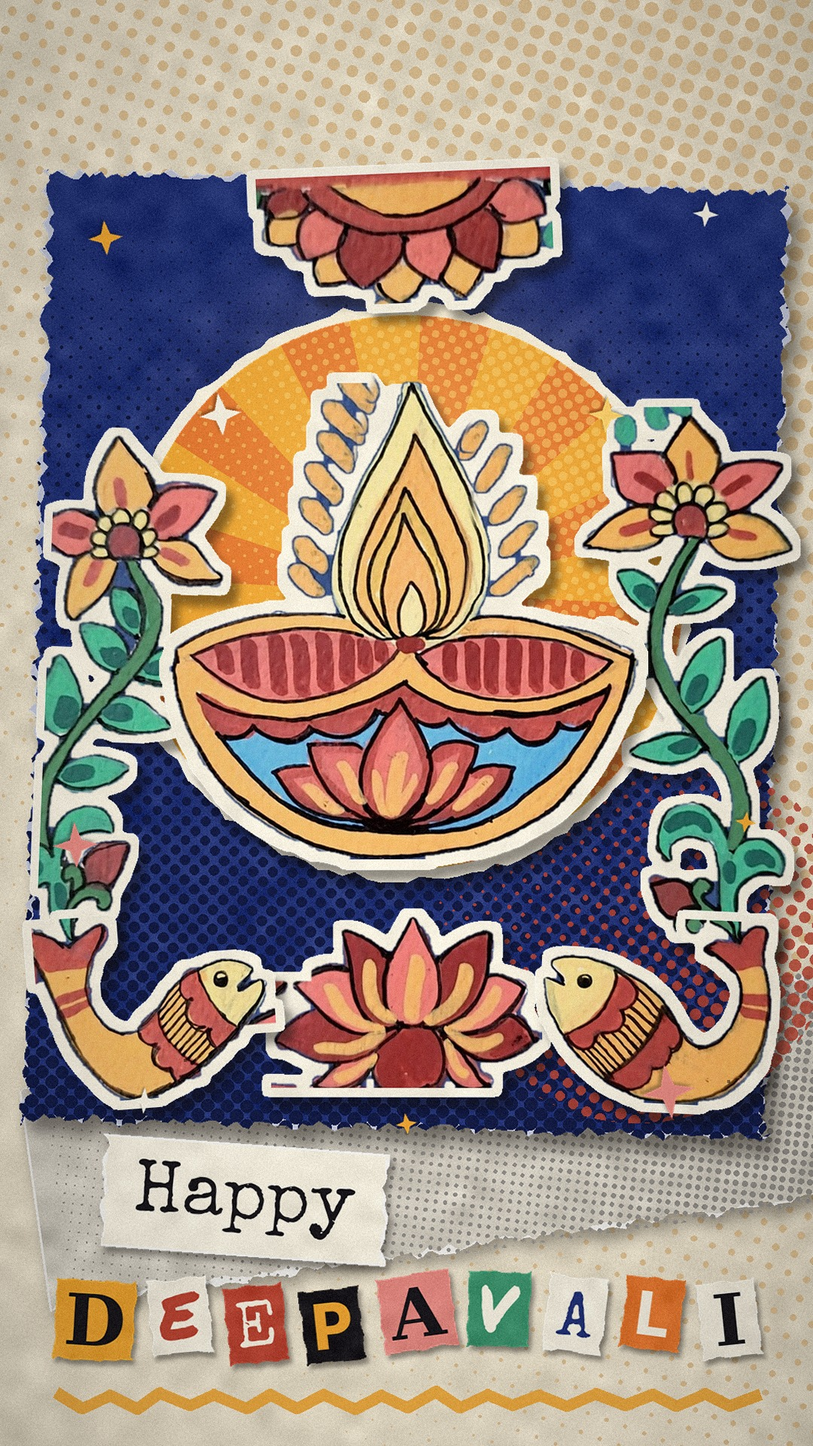
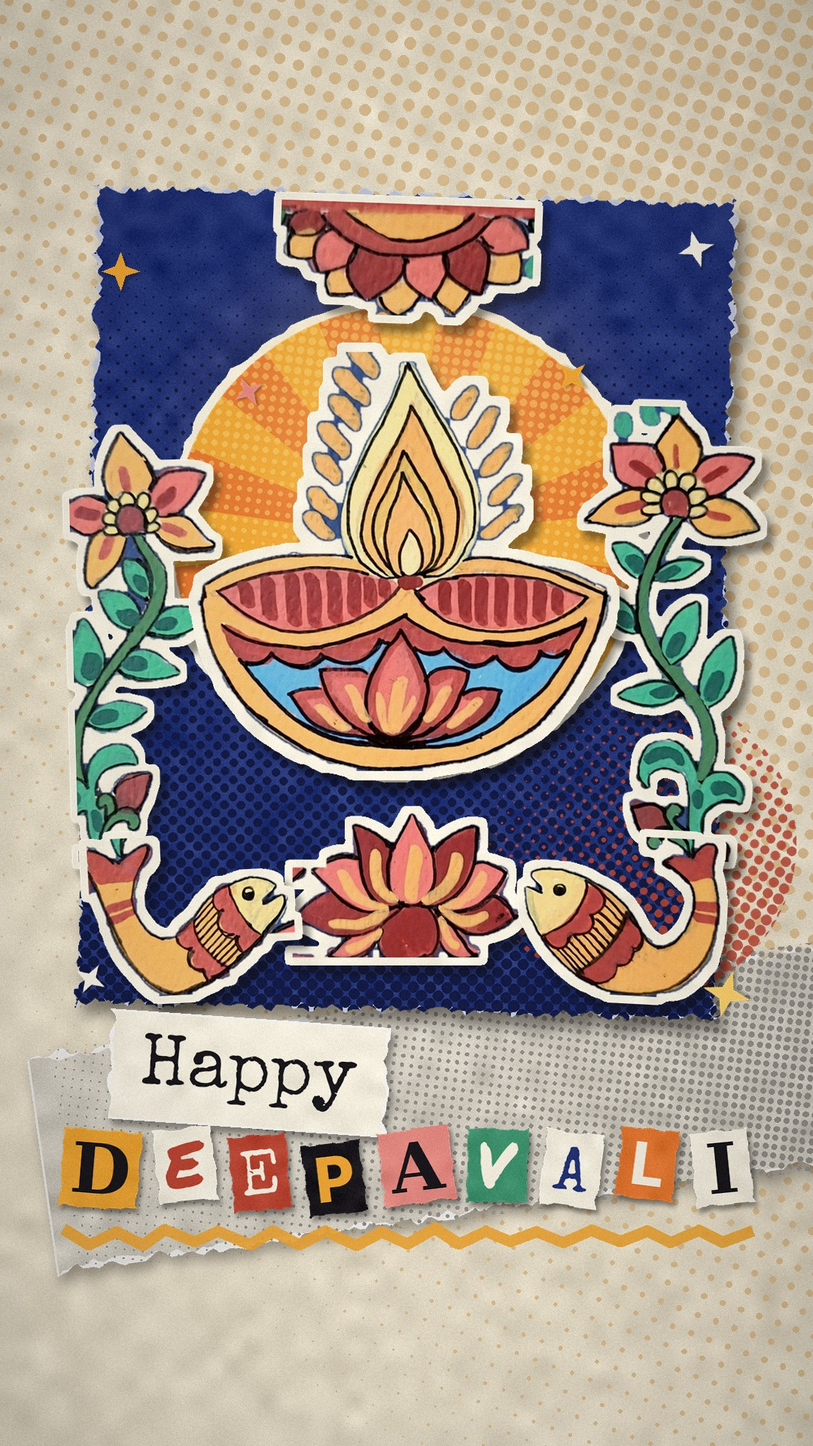
Add designed reel covers for the Deepawali collage, safe for the profile grid crop
Claude-Session: https://claude.ai/code/session_01RrZXxCa3zHm2gX94uXYgjx

diff --git a/make_vox_collage.py b/make_vox_collage.py
@@ -11,6 +11,7 @@ a small per-frame jitter, so it feels hand-animated.
 
 Usage:  python3 make_vox_collage.py                 # renders output/shubh_deepawali_collage.mp4
         python3 make_vox_collage.py --greeting Happy Deepavali   # any two-word greeting
+        python3 make_vox_collage.py --cover           # just the reel cover (+ grid-crop preview)
         python3 make_vox_collage.py --cut           # re-cut the elements (needs opencv)
         python3 make_vox_collage.py --preview 1 3 6 # stills -> output/preview/
 """
@@ -531,6 +532,43 @@ def grain(k):
     return np.random.default_rng(50 + k).normal(0, 5.0, (H, W)).astype(np.float32)
 
 
+# --------------------------------------------------------------------------- reel cover
+
+def render_cover():
+    """Static cover: the whole collage plus the greeting, fitted inside the middle 3:4 area
+    (y 240..1680) that Instagram shows on the profile grid."""
+    A = assets()
+    c = A["bg"].copy()
+    put(c, A["scrap"], W / 2 + 60, 1470)
+    put(c, A["panel"], W / 2, 800, rot=-1.5, scale=0.88)
+    put(c, A["blob"], 850, 1120, scale=0.8, alpha=0.85)
+    put(c, A["sun_rim"], W / 2, 715, scale=0.86)
+    put(c, A["sun"], W / 2, 715, rot=-8, scale=0.86)
+    put(c, A["glow"], W / 2, 580, scale=1.25, alpha=0.75)
+    put(c, A["vine_l"], 205, 1160, rot=1.5, scale=0.86, anchor=(0.5, 0.97))
+    put(c, A["vine_r"], 875, 1160, rot=-1.5, scale=0.86, anchor=(0.5, 0.97))
+    put(c, A["lotus_top"], W / 2, 345, rot=-2, scale=0.88)
+    put(c, A["diya"], W / 2, 745, scale=0.9)
+    put(c, A["lotus"], W / 2, 1255, scale=0.88, anchor=(0.5, 0.8))
+    put(c, A["fish_l"], 255, 1215, rot=3, scale=0.88)
+    put(c, A["fish_r"], 825, 1215, rot=-3, scale=0.88)
+    for k, (x, y, sc) in enumerate([(160, 360, 1.0), (925, 330, 0.8), (330, 520, 0.6), (760, 500, 0.9),
+                                     (120, 1300, 0.7), (965, 1320, 0.9)]):
+        put(c, A["stars"][k % len(A["stars"])], x, y, rot=15 * k, scale=sc)
+    put(c, A["happy"], 330, 1425)
+    letters = A["letters"]
+    widths = [im.width - 22 for im, _ in letters]
+    total = sum(widths)
+    x = W / 2 - total / 2
+    for k, (im, dy) in enumerate(letters):
+        put(c, im, x + widths[k] / 2, 1555 + dy)
+        x += widths[k]
+    scribble_underline(c, W / 2 - total / 2 + 10, W / 2 + total / 2 - 10, 1642, 1.0)
+    arr = np.asarray(c.convert("RGB")).astype(np.float32)
+    arr = arr * vignette()[..., None] + grain(0)[..., None] * 0.6
+    return Image.fromarray(np.clip(arr, 0, 255).astype(np.uint8))
+
+
 def render_frame(frame):
     return render(frame).tobytes()
 
@@ -541,6 +579,12 @@ def main():
         if "--cut" in sys.argv:
             return
     os.makedirs(OUT, exist_ok=True)
+    if "--cover" in sys.argv:
+        cov = render_cover()
+        cov.save(os.path.join(OUT, f"{SLUG}_cover.jpg"), quality=94)
+        cov.crop((0, 240, W, 1680)).save(os.path.join(OUT, f"{SLUG}_cover_grid_preview.jpg"), quality=90)
+        print("wrote", os.path.join(OUT, f"{SLUG}_cover.jpg"))
+        return
     if "--preview" in sys.argv:
         pdir = os.path.join(OUT, "preview")
         os.makedirs(pdir, exist_ok=True)
@@ -563,7 +607,7 @@ def main():
                 print(f"frame {i}/{n}", flush=True)
     proc.stdin.close()
     proc.wait()
-    Image.fromarray(render(int(7.0 * FPS))).save(os.path.join(OUT, f"{SLUG}_cover.jpg"), quality=92)
+    render_cover().save(os.path.join(OUT, f"{SLUG}_cover.jpg"), quality=94)
     print("wrote", out, f"({DURATION:.1f} s)")
 
 

diff --git a/README.md b/README.md
@@ -51,7 +51,7 @@ python3 make_diya_reel.py --preview 2 9 26  # stills at the given seconds -> out
 
 ## Shubh Deepawali / Happy Deepavali: collage animation
 
-`output/shubh_deepawali_collage.mp4` and `output/happy_deepavali_collage.mp4` (1080×1920, 12 s, stop-motion at 12 fps). The two videos are the same animation with a different greeting. This is an explainer-style paper collage. The diya, fish, lotuses and flower vines are cut out of the finished painting and layered over torn indigo paper, a halftone sunburst and newsprint scraps. The diya slams in as black-and-white newsprint and pops into colour, the fish swim in, and the flame flickers. The only text is the greeting, made from ransom-note letters. Covers: `output/shubh_deepawali_cover.jpg` and `output/happy_deepavali_cover.jpg`.
+`output/shubh_deepawali_collage.mp4` and `output/happy_deepavali_collage.mp4` (1080×1920, 12 s, stop-motion at 12 fps). The two videos are the same animation with a different greeting. This is an explainer-style paper collage. The diya, fish, lotuses and flower vines are cut out of the finished painting and layered over torn indigo paper, a halftone sunburst and newsprint scraps. The diya slams in as black-and-white newsprint and pops into colour, the fish swim in, and the flame flickers. The only text is the greeting, made from ransom-note letters. Covers: `output/shubh_deepawali_cover.jpg` and `output/happy_deepavali_cover.jpg`. These are designed covers, not frames from the video, and the greeting sits inside the middle 3:4 area that the profile grid shows. The `*_cover_grid_preview.jpg` files show how each cover will look on the grid. Run `python3 make_vox_collage.py --cover` to re-make just the cover.
 
 - `make_vox_collage.py`: the renderer. By default it renders "Shubh Deepawali". For another greeting, use `--greeting Happy Deepavali`. `--preview 1 3 6` writes stills.
 - `artworks/diya_cutouts/`: the cut-out elements as transparent PNGs. These are already committed. `python3 make_vox_collage.py --cut` recreates them (needs OpenCV).
